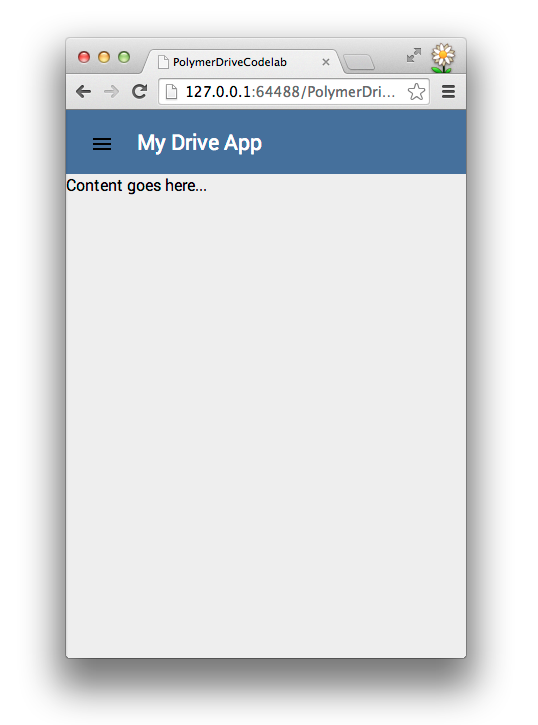
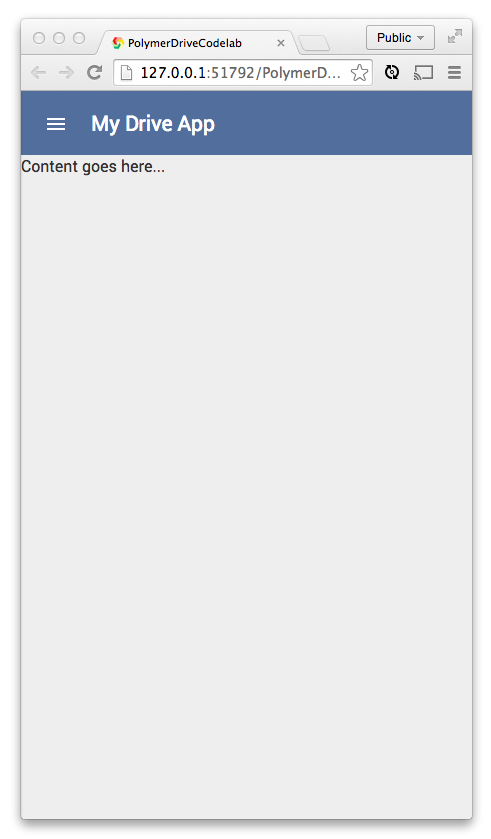
Update mobile drive codelab

Changed region(s): [[0.0305, 0.0303, 0.9776, 1.0]]

diff --git a/static/codelabs/4-polymer-drive-client/3-creating-elements.md b/static/codelabs/4-polymer-drive-client/3-creating-elements.md
@@ -35,13 +35,13 @@ starting off your element:
     <polymer-element name="drive-app">
 
       <template>
-        <style></style>
+        <link rel="stylesheet" href="drive-app.css">
 
         I’m a shiny new element.
 
       </template>
       <script>
-      Polymer('drive-app', {
+      Polymer({
         
       });
       </script>
@@ -52,13 +52,16 @@ This code defines the `<drive-app>` element as
 a tag that your app can use.
 The import lets you use Polymer's sugar while you’re authoring.
 
-Chrome Dev Editor should automatically save your changes to the element after
-you paste the code in.
-
-<figure>
-  <img src="img/image_9.png">
-  <figcaption>Chrome Dev Editor saves changes automatically</figcaption>
-</figure>
+<div class="stepbystep">
+  <ul>
+    <li>
+      <strong>Repeat the previous steps</strong> to also create a `drive-app.css` file. Leave this file blank for now.
+    </li>
+    <li>
+      <strong>Delete</strong> the `main.js` and `styles.css` files, they won't be used in this tutorial.
+    </li>
+  </ul>
+</div>
 
 
 ### Import your element
@@ -71,10 +74,23 @@ To employ the `<drive-app>` element, you need to:
 
 &rarr; Start editing `index.html`.
 
-&rarr; In the `<head`> of `index.html`, **add the following line**,
-making sure it's after the import of `platform.js`:
+&rarr; In the `<head`> of `index.html`, **remove** all existing imports and **add the following line**, making sure it's after the import of `platform.js`:
 
     <link rel="import" href="drive-app.html">
+
+When you're finished, the `<head>` of your document should look like this:
+
+    <head>
+      <title>PolymerDriveCodelab</title>
+
+      <meta name="viewport" content="width=device-width, initial-scale=1.0, maximum-scale=1.0">
+      <meta name="mobile-web-app-capable" content="yes">
+      <meta name="apple-mobile-web-app-capable" content="yes">
+
+      <script src="bower_components/platform/platform.js"></script>
+      
+      <link rel="import" href="drive-app.html">
+    </head>
 
 &rarr; In the `<body>`, **remove** all existing content and
 **declare an instance** of the `<drive-app>` element:

diff --git a/static/codelabs/4-polymer-drive-client/7-file-uploads.md b/static/codelabs/4-polymer-drive-client/7-file-uploads.md
@@ -51,7 +51,7 @@ with a splitter dividing the **Queue** and **Uploaded** areas.
     </div>
 
 
-&rarr; Add the following line to the `<style>` tag to
+&rarr; Add the following lines to the `drive-app.css` file to
 improve the look and feel:
 
     .panel { width: 50% };
@@ -81,7 +81,7 @@ Now you add the JavaScript that brings the markup to life.
 which defines some arrays and properties you'll use to work with upload lists:
 
     <script>
-      Polymer(‘drive-app’, {
+      Polymer({
         uploadList: [],    // selected files
         uploadedList: [],  // successfully uploaded files
         autoUpload: false, // automatically upload?
@@ -93,7 +93,7 @@ updating the arrays when files are chosen (note, this replaces the
 last snippet):
 
     <script>
-      Polymer('drive-app', {
+      Polymer({
           uploadList: [],
           uploadedList: [],
           autoUpload: false,
@@ -136,7 +136,7 @@ The dependencies should look like this:
 
     "dependencies": {
       "polymer": "Polymer/polymer#master",
-      "polymer-ui-toggle-button": "PolymerLabs/polymer-ui-toggle-button#master",
+      "paper-elements": "Polymer/paper-elements#master",
       "core-splitter": "Polymer/core-splitter#master",
       "core-scaffold": "Polymer/core-scaffold#master",
       "cors-upload-sample": "googledrive/cors-upload-sample#master"
@@ -148,7 +148,7 @@ The dependencies should look like this:
     <li>Run **Bower Update** from the dropdown.</li>
   </ul>
   <div>
-    <img src="img/image_18.png" style="height:200px;">
+    <img src="img/image_18.png" style="height:250px;">
   </div>
 </div>
 
@@ -164,7 +164,7 @@ The dependencies should look like this:
 Excellent. You can now _reference_ the `upload.js` script that
 comes with this package.
 
-&rarr; Add the following import after
+&rarr; Add the following `script` tag after
 the other HTML imports in `drive-app.html`:
 
     <script src="bower_components/cors-upload-sample/upload.js"></script>

diff --git a/static/codelabs/4-polymer-drive-client/5-using-elements.md b/static/codelabs/4-polymer-drive-client/5-using-elements.md
@@ -14,7 +14,7 @@ at the top of the file to load the elements.
 
     <link rel="import" href="bower_components/core-scaffold/core-scaffold.html">
     <link rel="import" href="bower_components/core-splitter/core-splitter.html">
-    <link rel="import" href="bower_components/polymer-ui-toggle-button/polymer-ui-toggle-button.html">
+    <link rel="import" href="bower_components/paper-toggle-button/paper-toggle-button.html">
 
 **Important**: These imports must be **after** the import of `polymer.html`.
 
@@ -29,12 +29,6 @@ This code declares `<core-scaffold>` with some markup
 so that the app gets a **toolbar**, a **menu**,
 and an area for the app's **content**.
 
-    <style>
-      core-scaffold {
-        font-family: 'Roboto', Arial;
-      }
-    </style>
-
     <core-scaffold>
       <core-header-panel navigation flex mode="seamed">
         <core-toolbar>
@@ -47,6 +41,12 @@ and an area for the app's **content**.
       <div>Content goes here...</div>
     </core-scaffold>
 
+&rarr; Add the following code to `drive-app.css`
+
+    core-scaffold {
+      font-family: 'Roboto', Arial;
+    }
+
 **Run the app**
 
 &rarr; When you select `index.html` and click the <img src="img/runbutton.png" class="icon"> button you should now see the following:
@@ -58,7 +58,7 @@ and an area for the app's **content**.
 
 As you can see, using `<core-scaffold>` is completely declarative!
 When you click the hamburger menu icon
-<img src="img/image_22.png"/>, it expands as follows:
+<img src="img/image_22.png" style="width: 45px;" />, it expands as follows:
 
 <figure>
   <img src="img/image_23.png"/>
@@ -67,8 +67,7 @@ When you click the hamburger menu icon
 
 ### Style the toolbar
 
-To give this sidebar a little flare, within the `<style>` tag you just added,
-add the following CSS:
+To give this sidebar a little flare, add the following CSS to `drive-app.css`:
 
     core-toolbar {
       background-color: #526E9C; 

diff --git a/static/codelabs/4-polymer-drive-client/8-google-signin.md b/static/codelabs/4-polymer-drive-client/8-google-signin.md
@@ -29,7 +29,7 @@ adding a reference to the "google-signin" element:
 
     "dependencies": {
       "polymer": "Polymer/polymer#master",
-      "polymer-ui-toggle-button": "PolymerLabs/polymer-ui-toggle-button#master",
+      "paper-elements": "Polymer/paper-elements#master",
       "core-splitter": "Polymer/core-splitter#master",
       "core-scaffold": "Polymer/core-scaffold#master",
       "cors-upload-sample": "googledrive/cors-upload-sample#master",
@@ -42,7 +42,7 @@ adding a reference to the "google-signin" element:
     <li>Run **Bower Update** from the dropdown.</li>
   </ul>
   <div>
-    <img src="img/image_18.png" style="height:200px;">
+    <img src="img/image_18.png" style="height:250px;">
   </div>
 </div>
 
@@ -74,8 +74,8 @@ valid client ID. To get this, you must get your own developer API key from the
 [Google Developer Console](https://console.developers.google.com/project).
 Be sure to enable the Google Drive API and add
 [http://127.0.0.1:51792/](http://127.0.0.1:51792/)
-to the list of authorized clients.
-
+to the list of authorized clients. In the **API's & auth > Consent screen** menu, be sure to give your application a `Product Name` and `Email Address`.
+<br><br>
 &rarr; Add attributes to the `google-signin` tag:
 
   <code><pre>
@@ -114,7 +114,7 @@ the `drive-app` element:
     },
 
     signedOut: function (e) {
-      this.$.loggedin.style.display = 'hidden';
+      this.$.loggedin.style.display = 'none';
     }
 
 ### Run the app
@@ -122,7 +122,7 @@ the `drive-app` element:
 You now have an application that looks like this:
 
 <figure>
-  <img src="img/image_36.png"/>
+  <img src="img/image_31.png"/>
   <figcaption>The app's current UI</figcaption>
 </figure>
 

diff --git a/static/codelabs/4-polymer-drive-client/6-logged-in.md b/static/codelabs/4-polymer-drive-client/6-logged-in.md
@@ -48,8 +48,7 @@ When you select `index.html` and click <img src="img/runbutton.png" class="icon"
 Unfortunately, the app doesn't provide much space to drag and drop files
 just yet. 
 
-&rarr; Add the following code inside the `<style>` tag
-to improve how the drag and drop area looks:
+&rarr; Add the following code to `drive-app.css` to improve how the drag and drop area looks:
 
     #dropzone {
       -moz-border-radius: 5px;
@@ -118,7 +117,7 @@ flex to fit their layout.
 
 You can use a few elements to achieve this UI.
 Namely, you'll use some layout helpers that come with `polymer.html`,
-and you'll use `<core-toolbar>` and `<polymer-ui-toggle-button>`.
+and you'll use `<core-toolbar>` and `<paper-toggle-button>`.
 You'll also add a label to the toolbar to
 display the current upload status so the user knows what’s going on.
 
@@ -127,11 +126,9 @@ display the current upload status so the user knows what’s going on.
     <core-toolbar layout horizontal id="dropzone-bar">
       <div>
         <span>Auto-upload</span>
-        <polymer-ui-toggle-button 
-        onCaption="On" 
-        offCaption="Off" 
-        value="{{autoUpload}}">
-        </polymer-ui-toggle-button>
+        <paper-toggle-button 
+        checked="{{autoUpload}}">
+        </paper-toggle-button>
       </div>
 
       <div>
@@ -148,7 +145,7 @@ display the current upload status so the user knows what’s going on.
       </div>
     </core-toolbar>
 
-&rarr; Add some styling for the toolbar, which again goes inside our `<style>` tag:
+&rarr; Add some styling for the toolbar, which again goes inside our `drive-app.css` file:
 
     #dropzone-bar {
       border-bottom:1px solid white;

diff --git a/static/codelabs/4-polymer-drive-client/2-getting-setup.md b/static/codelabs/4-polymer-drive-client/2-getting-setup.md
@@ -6,22 +6,12 @@ Fire up Chrome Dev Editor and start a "JavaScript Web app using Polymer".
 
 <div class="stepbystep">
   <ul>
-    <li>Click the Chrome Dev Editor icon at the bottom of the screen
-      to start up the editor.</li>
-  </ul>
-  <div>
-    <img src="/static/img/app-icons/chrome_dev_editor_screenshot.png">
-  </div>
-</div>
-
-<div class="stepbystep">
-  <ul>
     <li>In Chrome Dev Editor,
-      click <img src="img/tripledot.png" class="icon"> and then
+      click <img src="img/hamburger.png" class="icon"> and then
       <b>New Project</b>.</li>
   </ul>
   <div>
-    <img src="img/s1-newproject.png" style="height:100px;">
+    <img src="img/s1-newproject.png" style="height: 250px;">
   </div>
 </div>
 
@@ -29,11 +19,11 @@ Fire up Chrome Dev Editor and start a "JavaScript Web app using Polymer".
   <ul>
     <li>Enter <b>PolymerDriveCodelab</b> as the <b>Project name</b>.</li>
     <li>In the <b>Project type</b> dropdown, select
-      <b>JavaScript Web app using Polymer</b>.</li>
+      <b>JavaScript web app (using Polymer paper elements)</b>.</li>
     <li>Click the <b>Create</b> button.</li>
   </ul>
   <div>
-    <img src="img/s1-newproject-type.png" style="height:225px;">
+    <img src="img/s1-newproject-type.png" style="height:250px;">
   </div>
 </div>
 
@@ -50,7 +40,7 @@ You'll learn more about using `bower.json` in the next step.
 
 After installation, your directory structure should look like this:
 
-    PolymerMapsCodelab/
+    PolymerDriveCodelab/
       bower_components/ <!-- installed dependencies from Bower -->
       bower.json        <!-- metadata for managing dependencies -->
       index.html        <!-- your app -->

diff --git a/static/codelabs/4-polymer-drive-client/4-loading-goods.md b/static/codelabs/4-polymer-drive-client/4-loading-goods.md
@@ -69,7 +69,7 @@ to download the elements to `bower_components/`.
 
     "dependencies": {
       "polymer": "Polymer/polymer#master",
-      "polymer-ui-toggle-button": "PolymerLabs/polymer-ui-toggle-button#master",
+      "paper-elements": "Polymer/paper-elements#master",
       "core-splitter": "Polymer/core-splitter#master",
       "core-scaffold": "Polymer/core-scaffold#master"
     }
@@ -91,7 +91,6 @@ exist and contain files:
 
 * `bower_components/core-splitter`
 * `bower_components/core-scaffold`
-* `bower_components/polymer-ui-toggle-button`
 
 
 ## Next up
